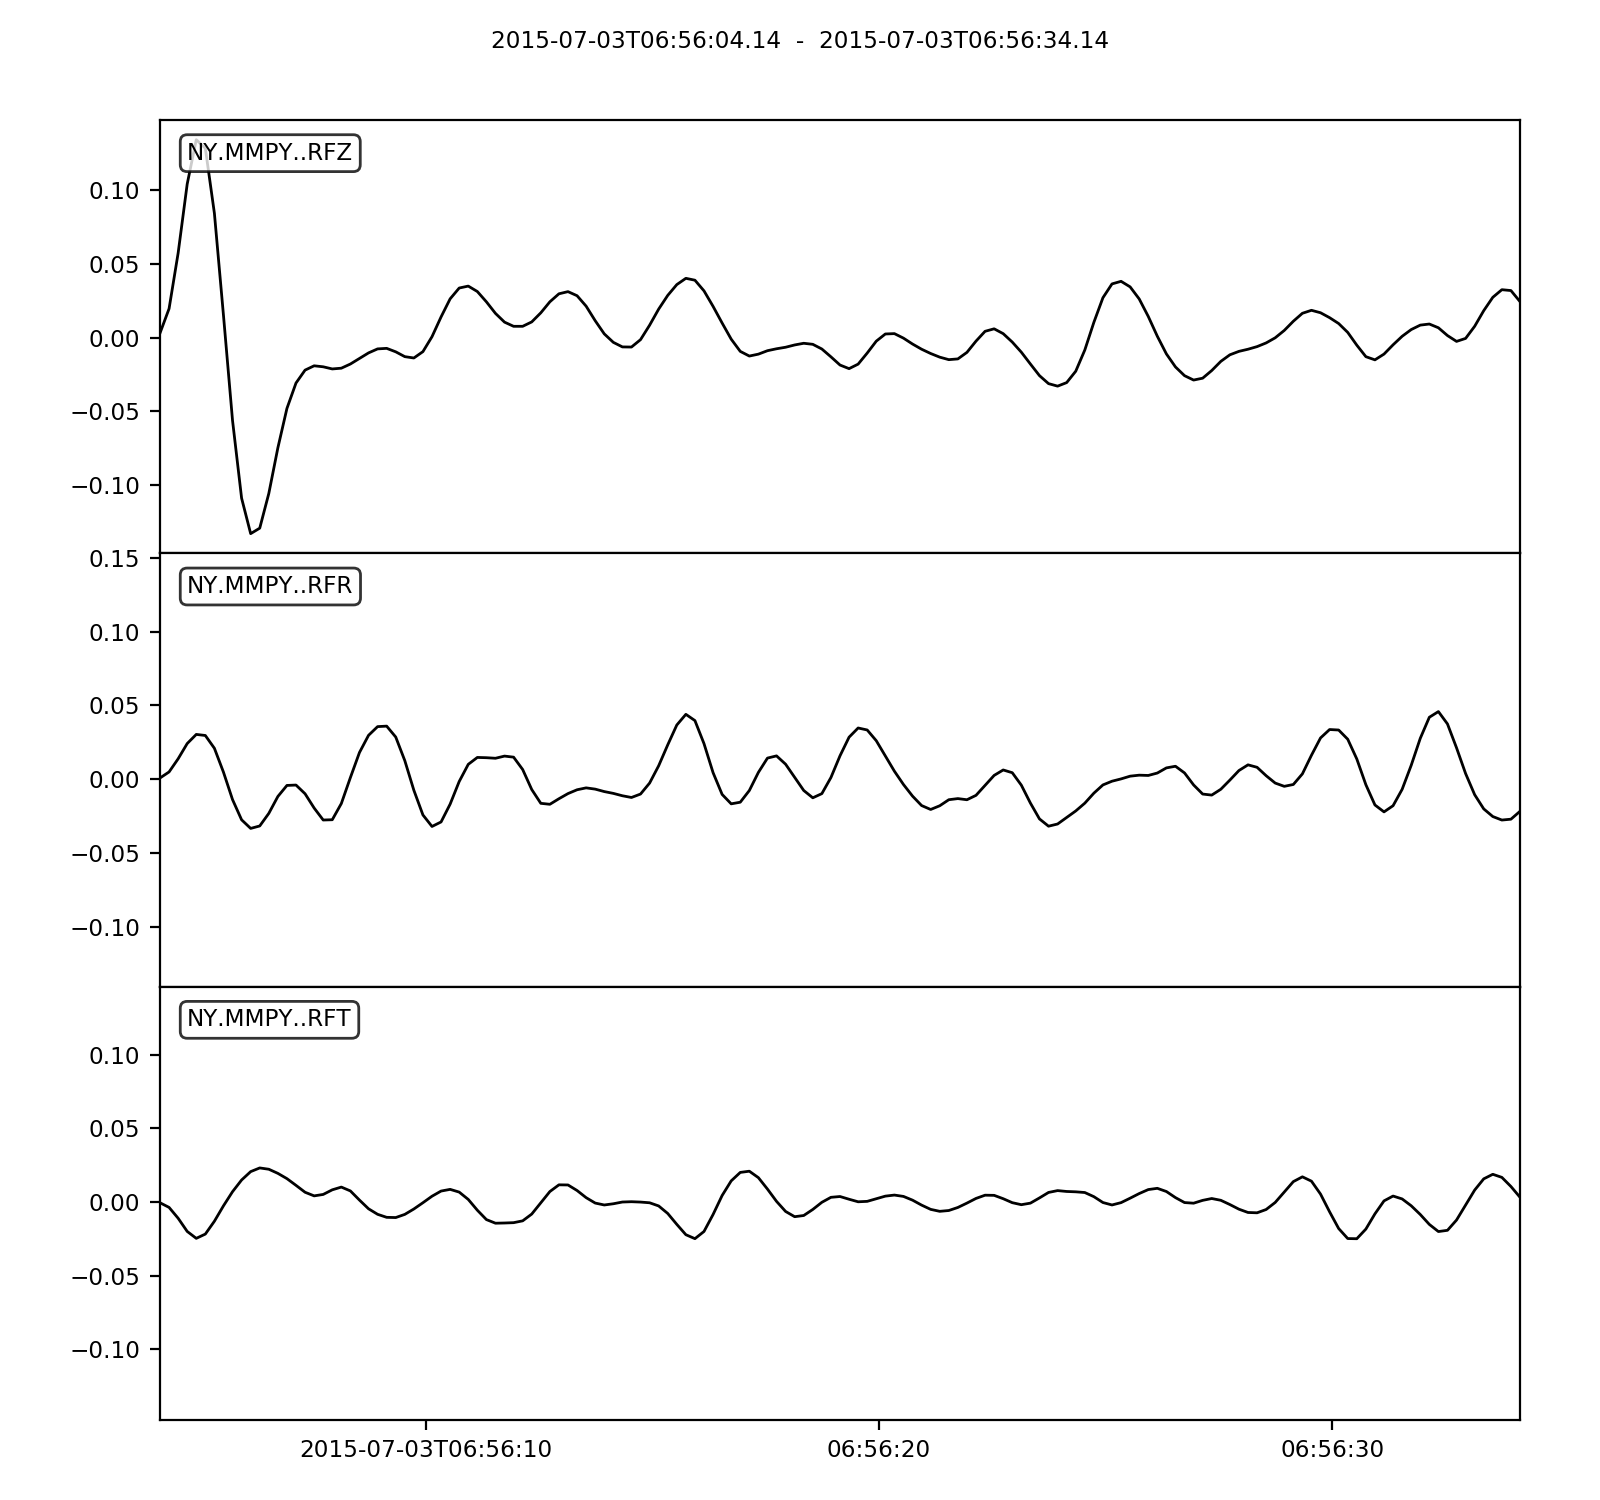
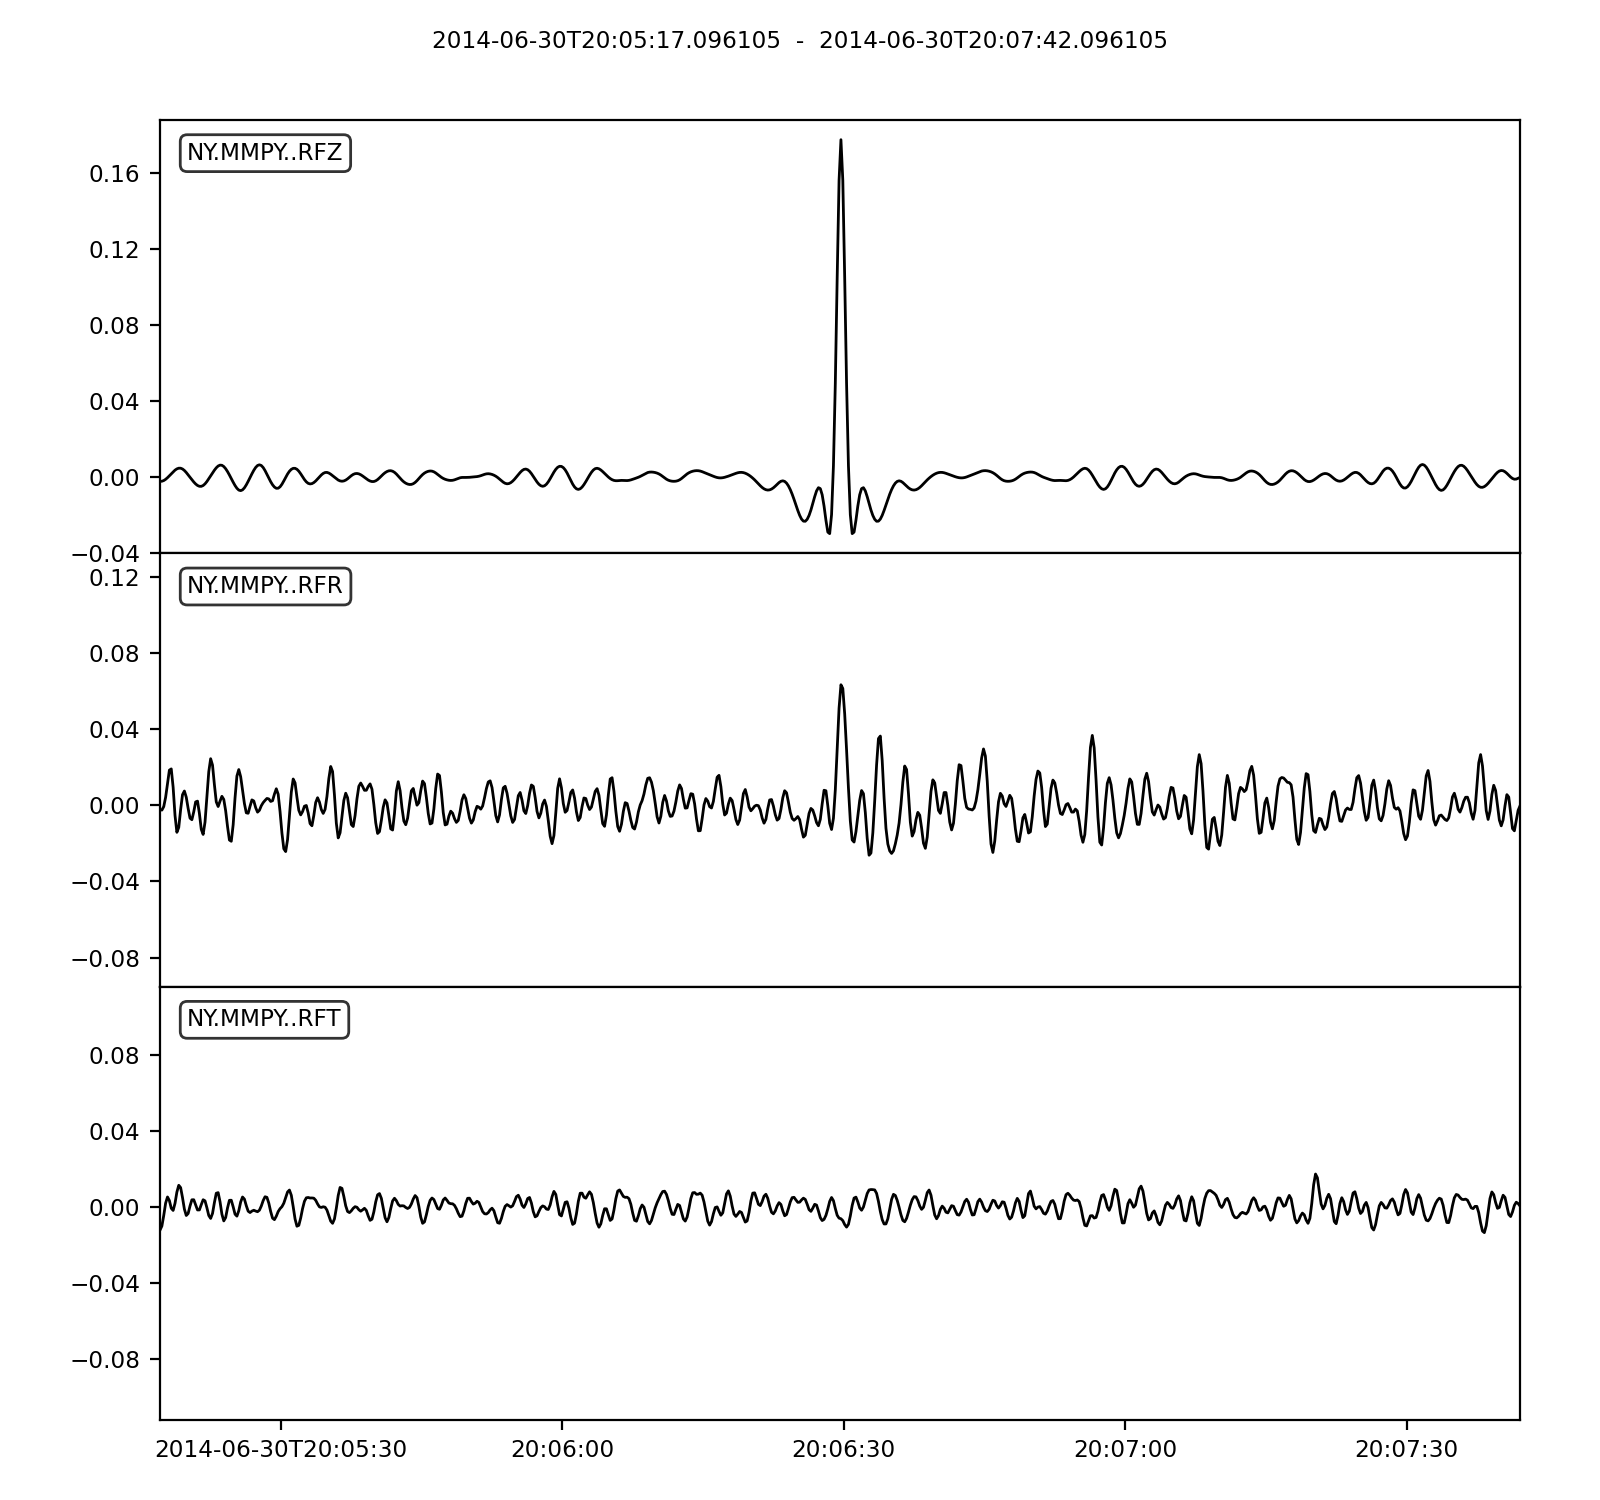
further along

diff --git a/rfpy/rfdata.py b/rfpy/rfdata.py
@@ -287,9 +287,10 @@ class RFData(object):
                 self.meta.accept = False
 
             # Filter Traces
-            self.data.filter('lowpass', freq=0.5*new_sr,
-                             corners=2, zerophase=True)
-            self.data.resample(new_sr, no_filter=False)
+            if not stream[0].stats.sampling_rate == new_sr:
+                self.data.filter('lowpass', freq=0.5*new_sr,
+                                 corners=2, zerophase=True)
+                self.data.resample(new_sr, no_filter=True)
 
         except:
             print("Error: Not all channels are available")

diff --git a/docs/rfpy.rst b/docs/rfpy.rst
@@ -322,10 +322,10 @@ Now add data to the object:
 .. sourcecode:: python
 
     >>> rfdata.add_data('demo')
-  3 Trace(s) in Stream:
-  NY.MMPY..HHZ | 2015-07-03T06:54:09.140000Z - 2015-07-03T06:58:08.940000Z | 5.0 Hz, 1200 samples
-  NY.MMPY..HHN | 2015-07-03T06:54:09.140000Z - 2015-07-03T06:58:08.940000Z | 5.0 Hz, 1200 samples
-  NY.MMPY..HHE | 2015-07-03T06:54:09.140000Z - 2015-07-03T06:58:08.940000Z | 5.0 Hz, 1200 samples
+    3 Trace(s) in Stream:
+    NY.MMPY..HHZ | 2014-06-30T20:02:52.096105Z - 2014-06-30T20:07:51.896105Z | 5.0 Hz, 1500 samples
+    NY.MMPY..HHN | 2014-06-30T20:02:52.096105Z - 2014-06-30T20:07:51.896105Z | 5.0 Hz, 1500 samples
+    NY.MMPY..HHE | 2014-06-30T20:02:52.096105Z - 2014-06-30T20:07:51.896105Z | 5.0 Hz, 1500 samples
 
 Perform receiver function deconvolution using default values:
 
@@ -333,7 +333,7 @@ Perform receiver function deconvolution using default values:
 
     >>> rfdata.deconvolve()
     Warning: Data have not been rotated yet - rotating now
-    Warning: SNR has not been calculated - calculating now using 
+    Warning: SNR has not been calculated - calculating now using default
 
     >>> rfdata.rf
     3 Trace(s) in Stream:
